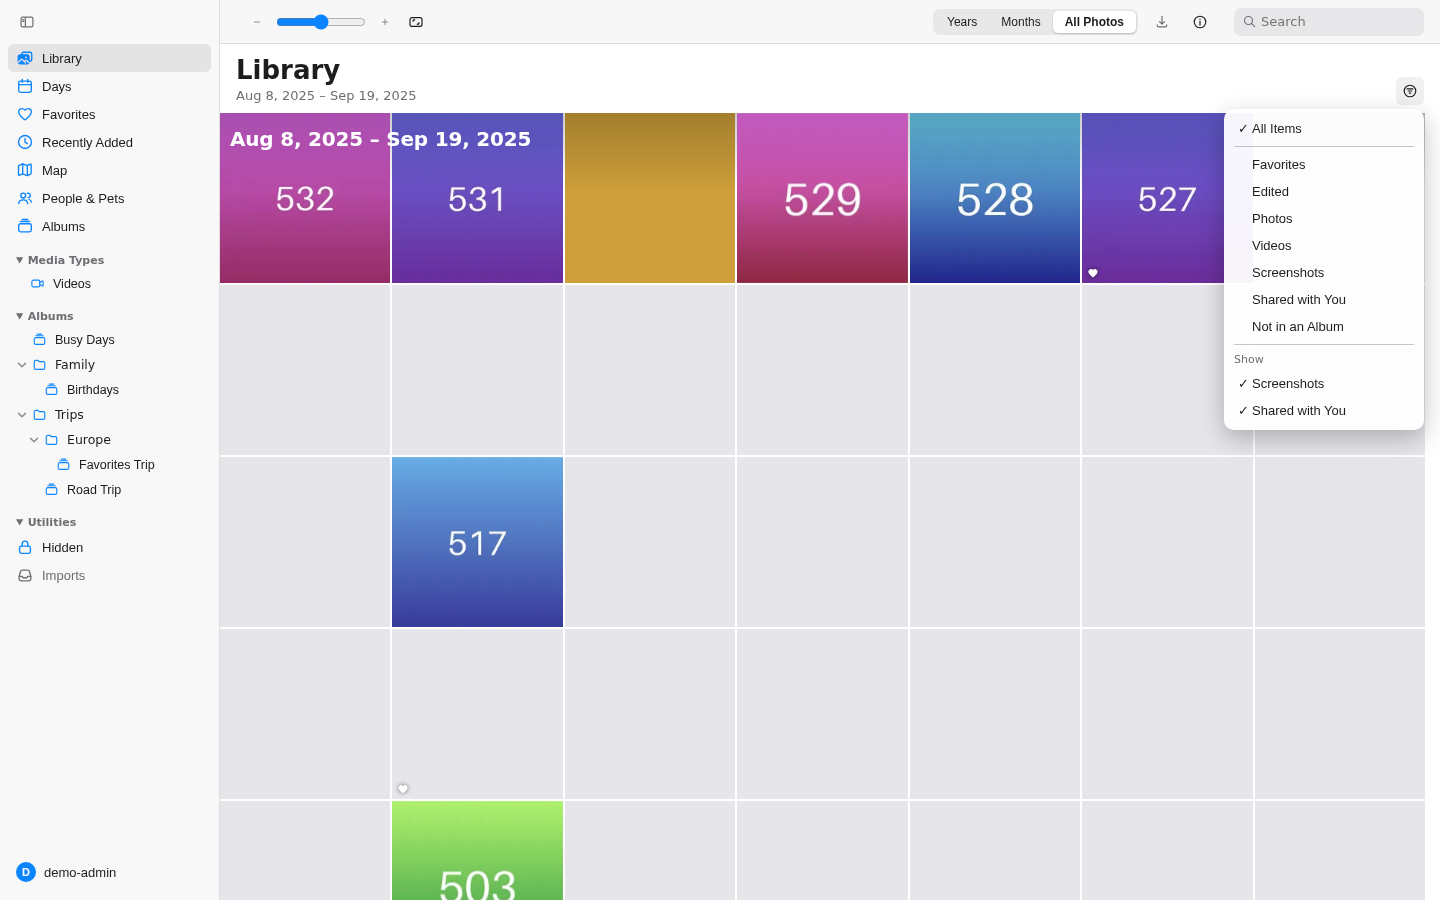
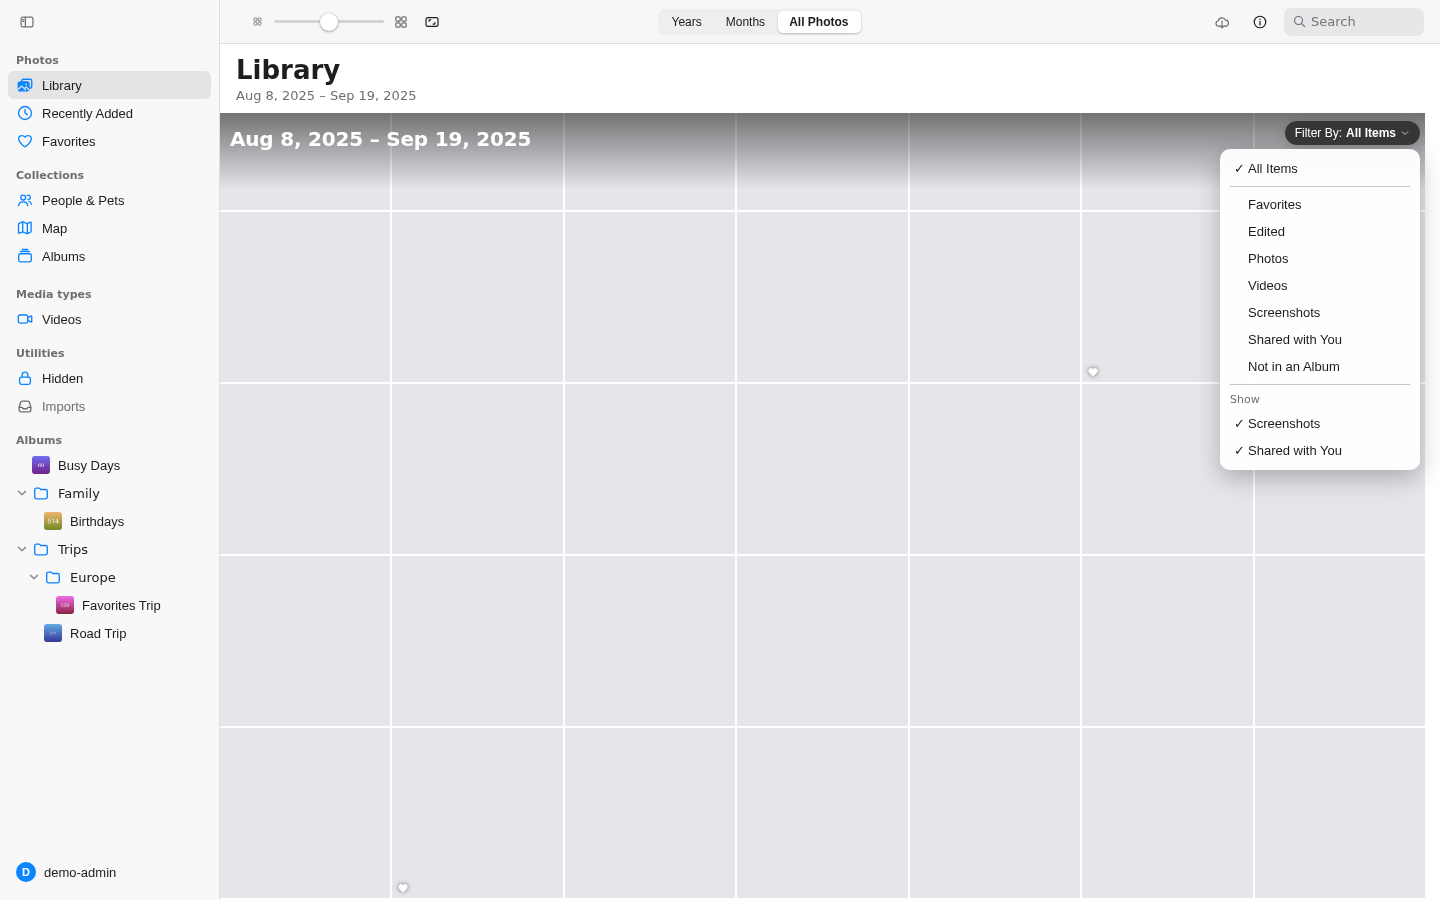
Desktop filter becomes the Mac 'Filter By: All Items' pill over the grid (Closes #369)

diff --git a/web/e2e/filter-pill.e2e.ts b/web/e2e/filter-pill.e2e.ts
@@ -1,0 +1,37 @@
+import { mkdirSync } from "node:fs";
+import { type Page, expect, test } from "@playwright/test";
+
+// #369: desktop "Filter By: All Items" pill floating over the grid.
+const ADMIN = { username: "demo-admin", password: "demo-admin-pass-1" };
+const SHOTS = process.env.SHOTS_DIR ?? "./screenshots/369";
+
+async function signIn(page: Page) {
+  await page.goto("/");
+  await page.getByLabel("Username").fill(ADMIN.username);
+  await page.getByLabel("Password").fill(ADMIN.password);
+  await page.getByRole("button", { name: "Sign in", exact: true }).click();
+  await expect(page.getByLabel("Username")).toHaveCount(0);
+}
+
+test("desktop filter pill shows, opens the menu and updates its value", async ({ page }, info) => {
+  test.skip(info.project.name !== "desktop", "desktop layout only");
+  mkdirSync(SHOTS, { recursive: true });
+  await signIn(page);
+  const pill = page.getByRole("button", { name: "Filter By" });
+  await expect(pill).toHaveText("Filter By: All Items");
+  // Over the grid, not in the header toolbar.
+  const grid = (await page.getByTestId("desktop-library-grid").boundingBox())!;
+  const box = (await pill.boundingBox())!;
+  expect(box.y).toBeGreaterThanOrEqual(grid.y);
+  expect(box.y + box.height).toBeLessThan(grid.y + 60);
+  expect(box.x + box.width).toBeGreaterThan(grid.x + grid.width - 80);
+  await page.screenshot({ path: `${SHOTS}/desktop-pill-${info.project.name}.png` });
+  await pill.click();
+  const menu = page.getByRole("menu", { name: "Filter By" });
+  await expect(menu).toBeVisible();
+  await page.screenshot({ path: `${SHOTS}/desktop-pill-open.png` });
+  await menu.getByRole("menuitemradio", { name: /Favorites/ }).click();
+  await expect(menu).toHaveCount(0);
+  await expect(pill).toHaveText("Filter By: Favorites");
+  await page.screenshot({ path: `${SHOTS}/desktop-pill-favorites.png` });
+});

diff --git a/web/src/shell/library/FilterMenu.test.tsx b/web/src/shell/library/FilterMenu.test.tsx
@@ -1,7 +1,7 @@
 import { fireEvent, render, screen } from "@testing-library/react";
 import { describe, expect, it, vi } from "vitest";
 import FilterMenu from "./FilterMenu";
-import { DEFAULT_SHOW, hiddenKinds, type LibraryFilterState } from "./useLibraryFilter";
+import { DEFAULT_SHOW, filterValueLabel, hiddenKinds, type LibraryFilterState } from "./useLibraryFilter";
 
 function makeState(over: Partial<LibraryFilterState> = {}): LibraryFilterState {
   return {
@@ -167,5 +167,21 @@ describe("FilterMenu mobile", () => {
     fireEvent.click(screen.getByRole("menuitem", { name: "View Options" }));
     expect(screen.getByRole("menuitem", { name: "View Options" })).toHaveFocus();
     expect(screen.getByRole("menuitem", { name: "View Options" })).toHaveAttribute("aria-expanded", "false");
+  });
+});
+
+describe("Filter By pill (#369)", () => {
+  it("names the value for every filter, All Items by default", () => {
+    expect(filterValueLabel("all")).toBe("All Items");
+    expect(filterValueLabel("favorites")).toBe("Favorites");
+    expect(filterValueLabel("not-in-album")).toBe("Not in an Album");
+  });
+  it("reads 'Filter By: <value>' with the value in its own span", () => {
+    const { rerender } = render(<FilterMenu state={makeState()} variant="desktop" label="Filter By" />);
+    const button = screen.getByRole("button", { name: "Filter By" });
+    expect(button.textContent).toBe("Filter By: All Items");
+    expect(button.querySelector(".filter-pill__value")?.textContent).toBe("All Items");
+    rerender(<FilterMenu state={makeState({ filter: "favorites", active: true })} variant="desktop" label="Filter By" />);
+    expect(button.querySelector(".filter-pill__value")?.textContent).toBe("Favorites");
   });
 });

diff --git a/web/src/shell/library/FilterMenu.tsx b/web/src/shell/library/FilterMenu.tsx
@@ -1,6 +1,6 @@
 import { Fragment, useEffect, useId, useRef, useState, type KeyboardEvent, type ReactNode } from "react";
 import { Icon, type IconName } from "../icons";
-import { FILTER_OPTIONS, type LibraryFilterState } from "./useLibraryFilter";
+import { FILTER_OPTIONS, filterValueLabel, type LibraryFilterState } from "./useLibraryFilter";
 
 // What the iPhone menu adds above "Show": View Options (zoom + aspect).
 export interface ViewOptions {
@@ -324,7 +324,7 @@ export default function FilterMenu({
       <button
         ref={buttonRef}
         type="button"
-        className={variant === "desktop" ? "toolbar-button" : "filter-menu__button mobile-library__glass-button"}
+        className={variant === "desktop" ? "filter-pill" : "filter-menu__button mobile-library__glass-button"}
         aria-haspopup="menu"
         aria-expanded={open}
         aria-controls={open ? menuId : undefined}
@@ -333,7 +333,15 @@ export default function FilterMenu({
         data-active={state.active}
         onClick={() => (open ? close(false) : setOpen(true))}
       >
-        <Icon name="filter" size={variant === "desktop" ? 16 : 22} filled={state.active} />
+        {variant === "desktop" ? (
+          <>
+            <span className="filter-pill__label">Filter By: </span>
+            <span className="filter-pill__value">{filterValueLabel(state.filter)}</span>
+            <Icon name="chevron" size={10} className="filter-pill__chevron" />
+          </>
+        ) : (
+          <Icon name="filter" size={22} filled={state.active} />
+        )}
       </button>
       {open && (
         <div

diff --git a/web/src/shell/shell.css b/web/src/shell/shell.css
@@ -2147,8 +2147,55 @@ body {
   color: var(--accent);
 }
 
-.filter-menu--desktop .toolbar-button[data-active="true"] {
-  color: var(--accent);
+/* Desktop: Mac Photos "Filter By: All Items" pill floating over the grid. */
+.desktop-library__grid-wrap {
+  position: relative;
+  flex: 1 1 auto;
+  min-width: 0;
+  display: flex;
+}
+
+.desktop-library__filter-pill {
+  position: absolute;
+  top: var(--space-8);
+  right: var(--space-20);
+  z-index: 6;
+}
+
+.filter-pill {
+  display: inline-flex;
+  align-items: center;
+  gap: var(--space-4);
+  height: 24px;
+  padding: 0 var(--space-10);
+  border: none;
+  border-radius: var(--radius-pill);
+  background: var(--material-filter-pill);
+  color: var(--color-on-filter-pill);
+  font-size: var(--font-size-caption);
+  white-space: nowrap;
+  backdrop-filter: var(--blur-material);
+  -webkit-backdrop-filter: var(--blur-material);
+  box-shadow: var(--shadow-pill);
+  cursor: default;
+  transition: background var(--dur-tint) var(--ease-tint);
+}
+
+.filter-pill:hover,
+.filter-pill[aria-expanded="true"] {
+  background: var(--material-filter-pill-hover);
+}
+
+.filter-pill__label {
+  font-weight: var(--font-weight-regular);
+}
+
+.filter-pill__value {
+  font-weight: var(--font-weight-semibold);
+}
+
+.filter-pill__chevron {
+  transform: rotate(90deg);
 }
 
 .filter-menu__popup {

diff --git a/web/src/shell/tokens.css b/web/src/shell/tokens.css
@@ -226,6 +226,9 @@
   --shadow-modal: 0 8px 32px rgba(0, 0, 0, 0.3);
   --shadow-card: 0 8px 30px rgba(0, 0, 0, 0.15);
   --shadow-pill: 0 4px 16px rgba(0, 0, 0, 0.18);
+  --material-filter-pill: rgba(44, 44, 46, 0.78);
+  --material-filter-pill-hover: rgba(44, 44, 46, 0.9);
+  --color-on-filter-pill: #fff;
   --shadow-pill-selected: 0 1px 3px rgba(0, 0, 0, 0.2);
   --shadow-segment: 0 1px 2px rgba(0, 0, 0, 0.2);
   --shadow-banner: 0 1px 6px rgba(0, 0, 0, 0.2);
@@ -308,6 +311,9 @@
     --shadow-modal: 0 8px 32px rgba(0, 0, 0, 0.55);
     --shadow-card: 0 8px 30px rgba(0, 0, 0, 0.5);
     --shadow-pill: 0 4px 16px rgba(0, 0, 0, 0.35);
+    --material-filter-pill: rgba(72, 72, 74, 0.78);
+    --material-filter-pill-hover: rgba(88, 88, 90, 0.88);
+    --color-on-filter-pill: #fff;
     --shadow-pill-selected: none;
     --shadow-segment: 0 1px 2px rgba(0, 0, 0, 0.4);
     --shadow-banner: 0 1px 6px rgba(0, 0, 0, 0.45);

diff --git a/web/src/shell/library/DesktopLibrary.tsx b/web/src/shell/library/DesktopLibrary.tsx
@@ -1016,9 +1016,12 @@ export default function DesktopLibrary({
               : (subtitle ?? (view !== "days" && dateRangeLabel ? dateRangeLabel : "\u00a0"))}
           </p>
         </div>
-        <FilterMenu state={filterState} variant="desktop" label="Filter By" />
       </div>
       <div className="desktop-library__body">
+      <div className="desktop-library__grid-wrap">
+      <div className="desktop-library__filter-pill">
+        <FilterMenu state={filterState} variant="desktop" label="Filter By" />
+      </div>
       <div
         ref={scrollRef}
         className="desktop-library__grid"
@@ -1142,6 +1145,7 @@ export default function DesktopLibrary({
             </button>
           </div>
         )}
+      </div>
       </div>
       {infoOpen && (
         <aside className="desktop-library__info-panel" data-testid="library-info-panel" aria-label="Info">

diff --git a/web/src/shell/search/Search.test.tsx b/web/src/shell/search/Search.test.tsx
@@ -160,8 +160,8 @@ describe("desktop search", () => {
     expect(toolbar).not.toContainElement(heading);
     expect(heading.closest(".page-heading")).not.toBeNull();
     expect(toolbar.compareDocumentPosition(heading) & Node.DOCUMENT_POSITION_FOLLOWING).toBeTruthy();
-    // Filter By sits on the right of the heading row.
-    expect(screen.getByRole("button", { name: "Filter By" }).closest(".page-heading")).not.toBeNull();
+    // Filter By is the pill over the grid (#369), not part of the heading row.
+    expect(screen.getByRole("button", { name: "Filter By" }).closest(".page-heading")).toBeNull();
 
     // Another view: same toolbar element and field, heading swaps.
     fireEvent.click(screen.getByRole("button", { name: "Map" }));

diff --git a/web/src/shell/library/useLibraryFilter.ts b/web/src/shell/library/useLibraryFilter.ts
@@ -14,6 +14,11 @@ export const FILTER_OPTIONS: { key: AssetFilter; label: string }[] = [
   { key: "not-in-album", label: "Not in an Album" },
 ];
 
+// The value half of the desktop "Filter By: <value>" pill.
+export function filterValueLabel(filter: AssetFilter): string {
+  return FILTER_OPTIONS.find((option) => option.key === filter)?.label ?? "All Items";
+}
+
 export interface ShowToggles {
   screenshots: boolean;
   shared: boolean;
